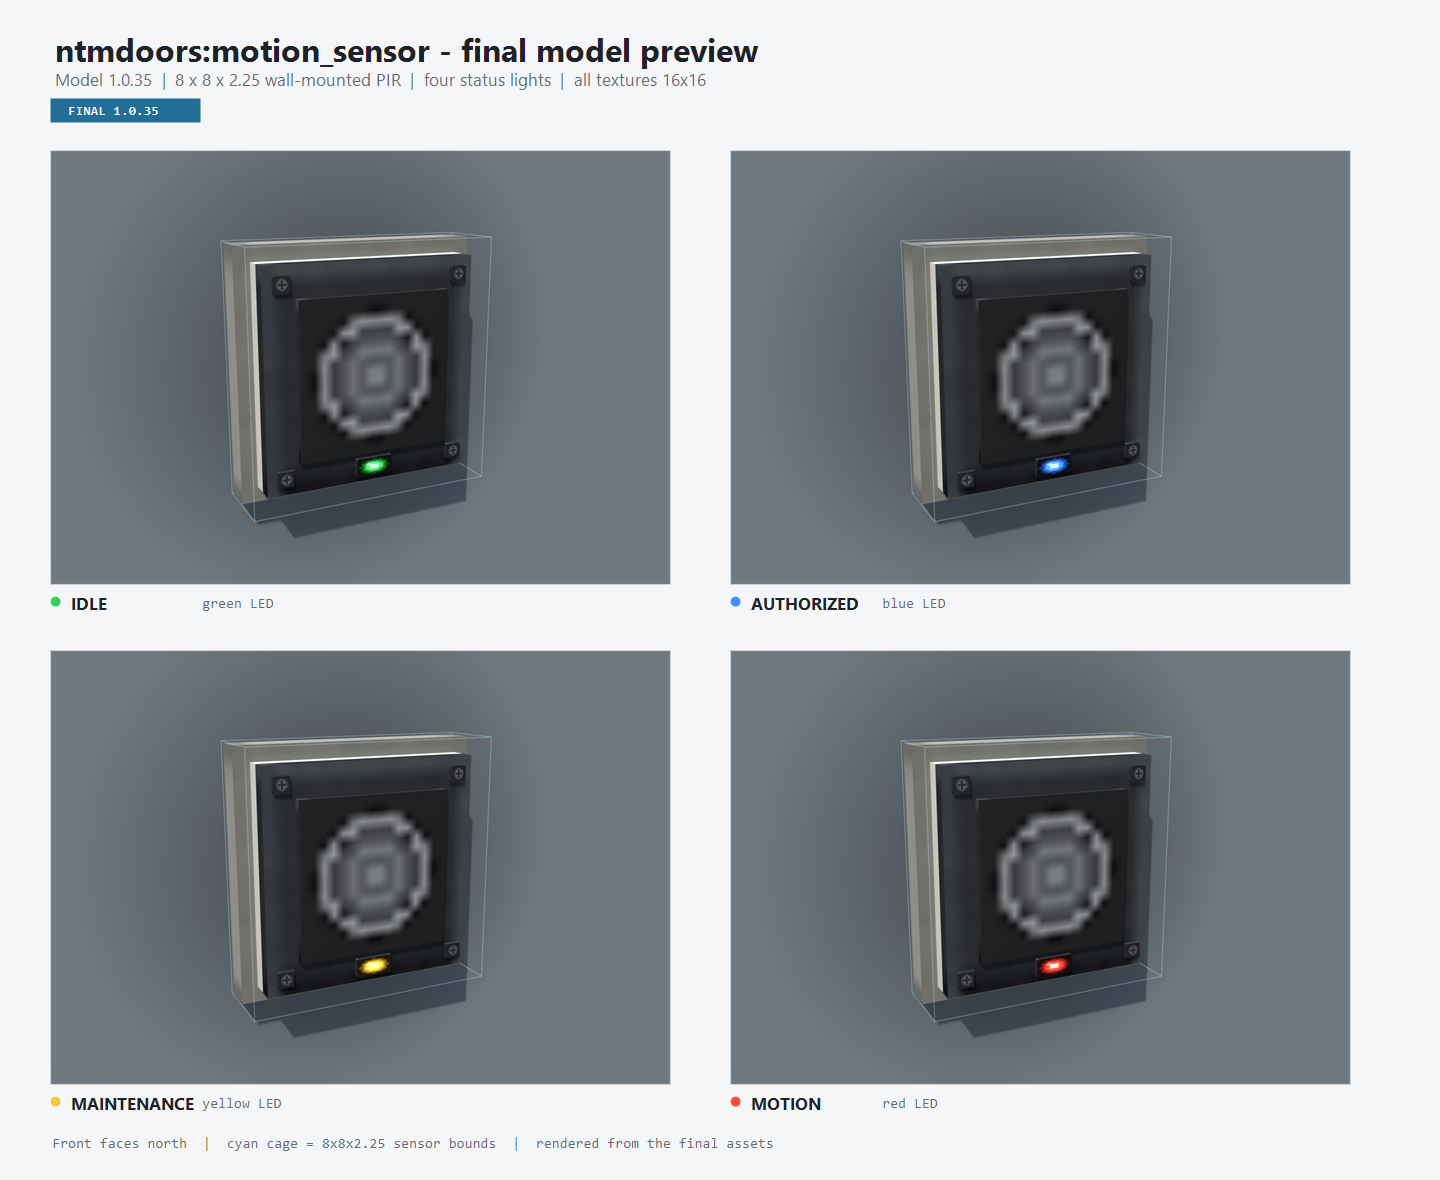
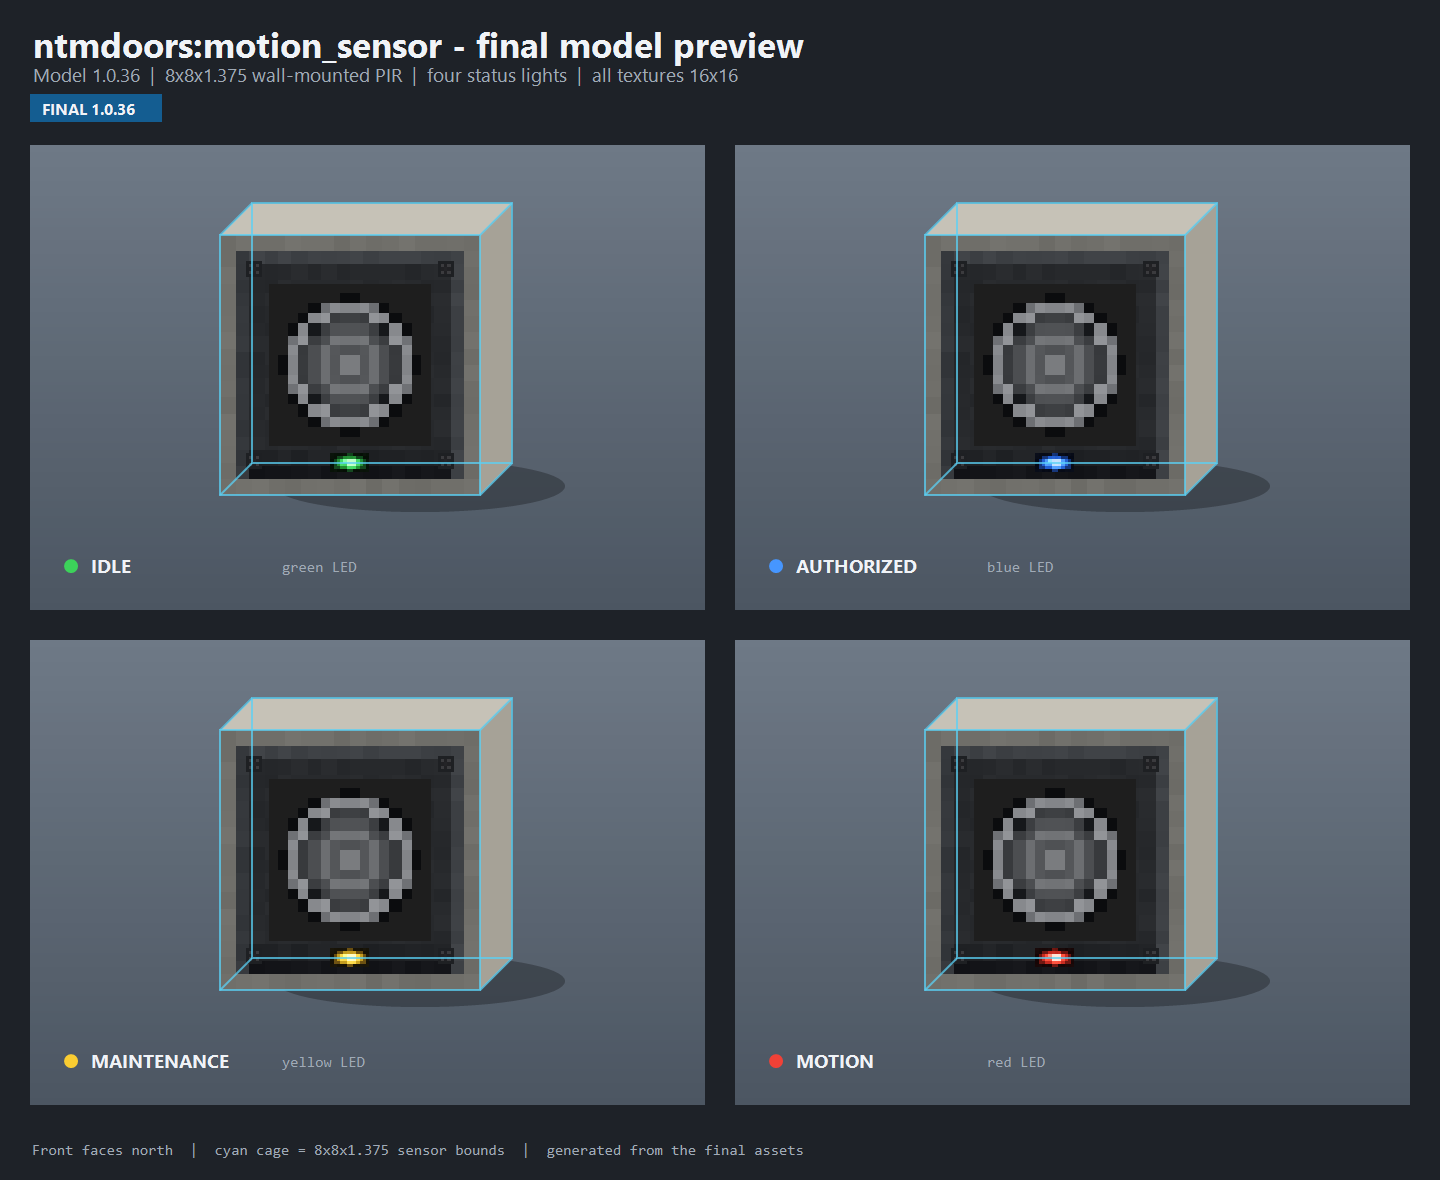
Press the Motion Sensor front nearly flush with the wall
- reduce the model depth from 2.25 to 1.375 pixels
- update the hitbox and centred item model to match
- regenerate the 1.0.36 preview and texture sheet
- refresh the source-art archive and materials READMEs
- bump to 1.0.36

diff --git a/src/main/java/com/ntmdoors/block/BlockMotionSensor.java b/src/main/java/com/ntmdoors/block/BlockMotionSensor.java
@@ -34,20 +34,20 @@ public class BlockMotionSensor extends Block {
     public static final PropertyDirection FACING = PropertyDirection.create("facing");
     public static final PropertyEnum<Status> STATUS = PropertyEnum.create("status", Status.class);
 
-    /** One texture pixel. The model occupies an 8x8 footprint and is 2.25 pixels deep. */
+    /** One texture pixel. The model occupies an 8x8 footprint and is 1.375 pixels deep. */
     private static final double P = 1.0 / 16.0;
     private static final AxisAlignedBB BOX_NORTH =
-            new AxisAlignedBB(4 * P, 4 * P, 13.75 * P, 12 * P, 12 * P, 16 * P);
+            new AxisAlignedBB(4 * P, 4 * P, 14.625 * P, 12 * P, 12 * P, 16 * P);
     private static final AxisAlignedBB BOX_SOUTH =
-            new AxisAlignedBB(4 * P, 4 * P, 0 * P, 12 * P, 12 * P, 2.25 * P);
+            new AxisAlignedBB(4 * P, 4 * P, 0 * P, 12 * P, 12 * P, 1.375 * P);
     private static final AxisAlignedBB BOX_EAST =
-            new AxisAlignedBB(0 * P, 4 * P, 4 * P, 2.25 * P, 12 * P, 12 * P);
+            new AxisAlignedBB(0 * P, 4 * P, 4 * P, 1.375 * P, 12 * P, 12 * P);
     private static final AxisAlignedBB BOX_WEST =
-            new AxisAlignedBB(13.75 * P, 4 * P, 4 * P, 16 * P, 12 * P, 12 * P);
+            new AxisAlignedBB(14.625 * P, 4 * P, 4 * P, 16 * P, 12 * P, 12 * P);
     private static final AxisAlignedBB BOX_UP =
-            new AxisAlignedBB(4 * P, 0 * P, 4 * P, 12 * P, 2.25 * P, 12 * P);
+            new AxisAlignedBB(4 * P, 0 * P, 4 * P, 12 * P, 1.375 * P, 12 * P);
     private static final AxisAlignedBB BOX_DOWN =
-            new AxisAlignedBB(4 * P, 13.75 * P, 4 * P, 12 * P, 16 * P, 12 * P);
+            new AxisAlignedBB(4 * P, 14.625 * P, 4 * P, 12 * P, 16 * P, 12 * P);
 
     /** Light colours: idle green, authorised blue, maintenance yellow, motion red. */
     public enum Status implements IStringSerializable {

diff --git a/src/main/java/com/ntmdoors/NTMDoors.java b/src/main/java/com/ntmdoors/NTMDoors.java
@@ -20,7 +20,7 @@ import net.minecraftforge.fml.common.event.FMLPreInitializationEvent;
 import org.apache.logging.log4j.LogManager;
 import org.apache.logging.log4j.Logger;
 
-@Mod(modid = NTMDoors.MODID, name = "NTM Doors", version = "1.0.35",
+@Mod(modid = NTMDoors.MODID, name = "NTM Doors", version = "1.0.36",
         acceptedMinecraftVersions = "[1.12.2]", dependencies = "required-after:chisel")
 public class NTMDoors {
 

diff --git a/CURSEFORGE-DESCRIPTION.md b/CURSEFORGE-DESCRIPTION.md
@@ -4,7 +4,7 @@
 
 NTM Doors is a standalone Forge 1.12.2 port of the multiblock door system and concrete building set from HBM's Nuclear Tech Mod. No NTM installation is required. Chisel 1.12.2-1.0.2.45 is required. Every model, texture and sound is bundled.
 
-**Current version: 1.0.35**
+**Current version: 1.0.36**
 
 ## 16 multiblock doors
 
@@ -112,7 +112,7 @@ Screwdriver + sneak + right-click cycles door skins:
 ## Decorative blocks
 
 - **Speaker** - a 1x1x1 black-ash cabinet with a woofer, tweeter and bass reflex port. Shift-right-click (with any item or an empty hand) opens a safe-style toggle screen with **Enabled**, four selectable sounds (**Air Raid**, **Facility**, **Industrial**, **EAS**), a 1-64 block range slider and a 0-100% volume slider; anyone may use it. While enabled and receiving redstone power, it loops the selected alarm until the signal or **Enabled** is removed. The sound, range, volume and enabled state are saved with the block. A normal right-click with the Redstone Relay Key starts/finishes a wireless binding session, and starting the alarm pulses every linked Redstone Gate.
-- **Motion Sensor** - a compact 8x8x2.25 surface-mounted PIR sensor with an off-white ABS housing, charcoal bezel, ringed concentric Fresnel lens and a status light. It can be placed on floors, walls and ceilings; the clicked face becomes the lens direction. Green means no motion, blue means authorised personnel, yellow means maintenance and red means motion detected. Creative right-click cycles the light for preview; detection logic is not implemented yet.
+- **Motion Sensor** - a compact 8x8x1.375 surface-mounted PIR sensor with an off-white ABS housing, charcoal bezel, ringed concentric Fresnel lens and a status light. It can be placed on floors, walls and ceilings; the clicked face becomes the lens direction. Green means no motion, blue means authorised personnel, yellow means maintenance and red means motion detected. Creative right-click cycles the light for preview; detection logic is not implemented yet.
   - [Final model preview](https://github.com/Kyron04/susy-ntmdoors/blob/main/source-art/motion-sensor/motion-sensor-model-preview-final.png)
 
 ## Redstone

diff --git a/README.md b/README.md
@@ -4,7 +4,7 @@ Standalone port of the HBM's Nuclear Tech Mod door system and concrete building 
 1.12.2. The implementation and the included door, concrete and HL Blocks assets are used under the
 LGPL-3.0. See `LICENSE.LESSER` and `NOTICE` for attribution and source information.
 
-Current release: **1.0.35**
+Current release: **1.0.36**
 
 Source design reference: https://github.com/HbmMods/Hbm-s-Nuclear-Tech-GIT
 
@@ -153,7 +153,7 @@ Pass `-PnoVersionBump` to rebuild the current version without advancing it.
   volume and enabled state are saved with the block. A normal right-click with the Redstone Relay
   Key starts/finishes a wireless binding session, and starting the alarm pulses every linked
   Redstone Gate.
-* Motion Sensor (`ntmdoors:motion_sensor`): a compact 8x8x2.25 surface-mounted PIR housing with an
+* Motion Sensor (`ntmdoors:motion_sensor`): a compact 8x8x1.375 surface-mounted PIR housing with an
   off-white body, charcoal bezel, ringed concentric Fresnel lens and four status-light colours.
   It can be placed on floors, walls and ceilings; the clicked face becomes the lens direction.
   Green means no motion, blue means authorised personnel, yellow means maintenance and red means
@@ -257,7 +257,7 @@ Pass `-PnoVersionBump` to rebuild the current version without advancing it.
 
 ![Motion Sensor final model preview](source-art/motion-sensor/motion-sensor-model-preview-final.png)
 
-The 1.0.35 model is 8x8x2.25 with a centred GUI model and four status lights. The full source
+The 1.0.36 model is 8x8x1.375 with a centred GUI model and four status lights. The full source
 materials and texture generator live in `source-art/motion-sensor/`.
 
 ## Included door assets

diff --git a/source-art/motion-sensor/README.md b/source-art/motion-sensor/README.md
@@ -1,6 +1,6 @@
 # Motion Sensor source art
 
-Final model and texture source materials for the NTM Doors Motion Sensor (model 1.0.35).
+Final model and texture source materials for the NTM Doors Motion Sensor (model 1.0.36).
 
 ![Motion Sensor final model preview](motion-sensor-model-preview-final.png)
 
@@ -10,7 +10,7 @@ These files are archived here for reference. The active copies loaded by the mod
 ## Model
 
 - Footprint: 8 x 8 texture pixels
-- Depth: 2.25 texture pixels
+- Depth: 1.375 texture pixels
 - Front: north in model space
 - Back plate: z=15..16
 - Blocks: `motion_sensor`, with six-way facing and four status models
@@ -38,6 +38,7 @@ Run the PowerShell generator to rebuild every texture exactly:
 
 ```powershell
 powershell -ExecutionPolicy Bypass -File scripts\generate_motion_sensor_textures.ps1
+powershell -ExecutionPolicy Bypass -File scripts\generate_motion_sensor_preview.ps1
 ```
 
 See `README.txt` for the full asset list, dimensions and installation notes.

diff --git a/CHANGELOG.md b/CHANGELOG.md
@@ -1,5 +1,11 @@
-HBM DOORS: 1.0.35
+HBM DOORS: 1.0.36
 Minecraft 1.12.2 / Forge 14.23.5.2847
+
+1.0.36
+CHANGES
+- Pressed the Motion Sensor front assembly flush against the back plate, reducing its depth from
+  2.25 to 1.375 pixels.
+- Updated the collision and selection boxes and the centred inventory model to the new depth.
 
 1.0.35
 CHANGES
